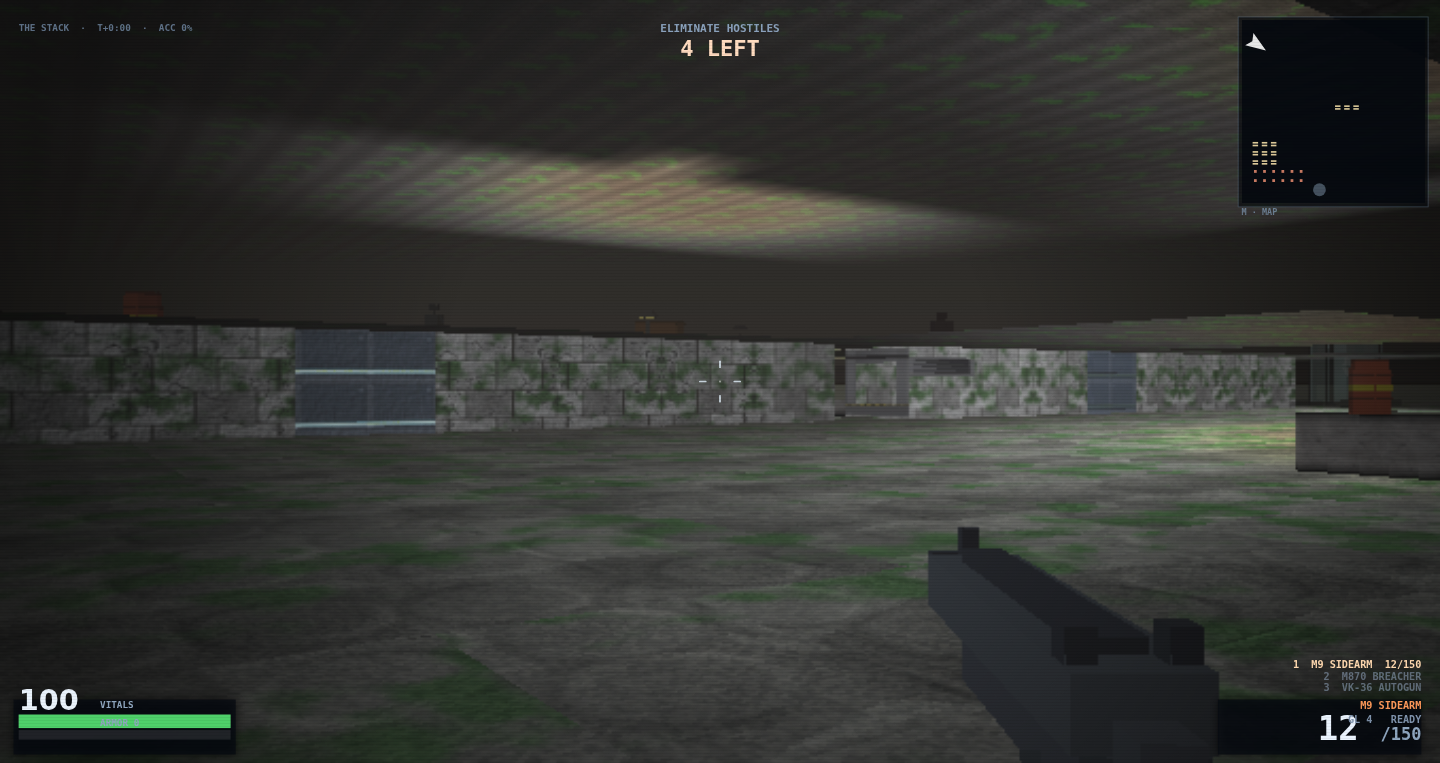
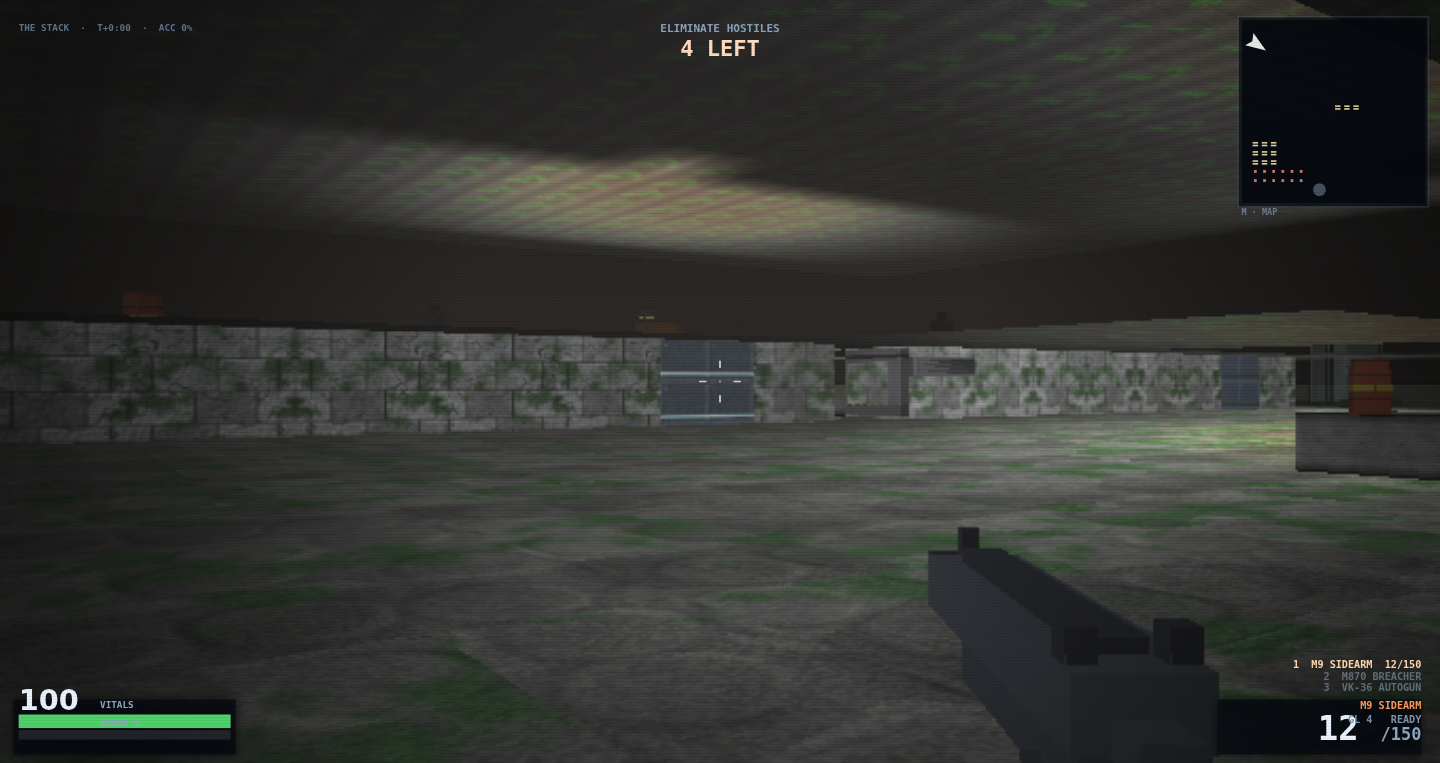
docs: re-take THE STACK's frame from the build the deployed page serves (#388)
main's third take of #375 landed while the previous capture of this seat was in
review, and it paints into exactly this frame: a ray that leaves the level no
longer pays a tall ceiling's bounce light. The shipped PNG came from the build
before it, so the caption's 50.89 sat above what the URL now draws and the row's
md5-identical claim had gone false under the PR.

Re-taken from the deployed URL at cc10ef4 (deployed index.html + 11 js blobs are
md5-identical to this tree's js/, which is main's). Frame decodes 50.44 by thirds
41.8/58.6/50.9; 150,360 px move by >2 luma against the bytes it replaces and
124,799 of them are the far-ceiling middle third, floor third moving 0.01. The
route runs from a document-time hook plus the game's own resume() - a page with
no pointer lock pauses on first blur and the overlay dims the frame (14.48, which
is how it was caught) - and DEV.layoutSig() now reads 2307539281: MAP.fz is
authored and unchanged, the MAP.cell panel half moved with #400 and route timing.

recap check 0 failures of 39 rows; smoke and VERT smoke both SMOKE PASSED.

diff --git a/README.md b/README.md
@@ -51,7 +51,7 @@ PR that changes the picture. `node tools/recap.js check` decodes these files and
 quoted below against them, so a caption cannot drift from its image. What *changed* between two
 recaptures is a question for `CHANGELOG.md` and the PR that moved it — it is not kept here.
 
-The six frames decode to **63.44 / 20.87 / 63.06 / 47.81 / 68.50 / 50.89** mean luma
+The six frames decode to **63.44 / 20.87 / 63.06 / 47.81 / 68.50 / 50.44** mean luma
 (`0.2126 R + 0.7152 G + 0.0722 B`, the rule `DEV.lum` uses), in the order they appear below.
 
 All six come from the **deployed build** at `?dev=1&seed=60`, with the clock frozen, vitals pinned at
@@ -63,21 +63,34 @@ by a **code** marker rather than a prose one: `authorVolume.toString()` contains
 `rooms.length >= 8 ? 3 : TALL_WANT_MIN` (#283), and `MESH.neckBand` exists (#326) - both read off the
 shipped statements, and every deployed `js/` blob is md5-identical to the
 tree at **`ce9d39d`**. **One frame is newer than the other five.** `level3-stack.png` was re-taken at
-**`b1d90fb`** (#388), and this time the instrument was the URL itself: headless Chromium opened the
-deployed page at a 1440 × 763 viewport and drove the dev hooks there, instead of rendering a checkout
-over loopback and arguing from md5. The bytes were still read - `index.html` and all eleven `js/` blobs
-served by the deployed page are md5-identical to that tree - so the route and the tree name one build.
-Four merged PRs have moved that seat's picture since the file last sat here: #318 walked the doorway lamp
-one cell east out of the wall jamb, #375 cancelled a lamp's borrowed light on the far ceiling past the
-level's edge, #373 turned props into shaded solids, #403 mounted fixtures on walls, and #379 replaced
-bloom's flat gain over every mid-bright pixel with a bright pass and one shouldered black-point lift on
-the room. The frame decodes 47.77 → **50.89** by thirds **34.7 / 64.1 / 44.6 → 42.1 / 60.2 / 50.9**: the
-lift raises what was dark and the removed gain takes the brightness off what was already lit - the `TECH`
-panel band reads 97/101/96 where it read 121/139/137, so the green cast the old frame carried is gone and
-its mid-bright band is the only third that went down. It is stored as colour type 2 (truecolour, no
+**`cc10ef4`**, what the deployed page serves now (#388), and the instrument is the URL itself: headless
+Chromium opened the deployed page at a 1440 × 763 viewport and drove the dev hooks there, instead of
+rendering a checkout over loopback and arguing from md5. The bytes were still read - `index.html` and all
+eleven `js/` blobs served by the deployed page are md5-identical to that tree - so the route and the tree
+name one build. Five merged PRs have moved that seat's picture since `34d58d0` last sat here: #318 walked
+the doorway lamp one cell east out of the wall jamb, #375 cancelled a lamp's borrowed light on the far
+ceiling past the level's edge - in three takes, the last of them landed while this frame was being taken,
+#373 turned props into shaded solids, #403 mounted fixtures on walls and #400 set them back off the wall
+face so they keep a shape at an angle, and #379 replaced bloom's flat gain over every mid-bright pixel
+with a bright pass and one shouldered black-point lift on the room. Against the frame it replaces this one
+decodes **50.89 → 50.44** by thirds **42.1 / 59.7 / 50.9 → 41.8 / 58.6 / 50.9** (`tools/recap.js`'s own
+band means, which are what the tool prints and gates against, not a hand-taken third). 150,360 of its
+1,098,720 pixels move by more than 2 luma and they are not scattered: 124,799 of them are in the middle
+third, the far ceiling above the `TECH` wall, which is exactly where #375's third take cancels a tall
+ceiling's bounce light from rays that reach no ceiling; the floor third moves by 0.01. Frame channels
+read 49.5 / 51.0 / 47.7 against 49.9 / 51.5 / 48.1, so the picture is the same colour one shade quieter
+rather than a different colour. It is stored as colour type 2 (truecolour, no
 alpha) like the other five; a capture that arrives as RGBA has to be put through `tools/png_rgb.js`
 first, because the decoder in `tools/recap.js` reads an alpha PNG's channels in the wrong order (#394).
-Its `DEV.layoutSig()` reads **3233039185** at the same `seed=60`, reproduced on four consecutive loads.
+Its `DEV.layoutSig()` reads **2307539281** at the same `seed=60`, on every one of six loads. That is not
+the signature the previous frame of this seat carried (3233039185): the authored `MAP.fz` is unchanged -
+this level's floors are written, not rolled - and what moved is the `MAP.cell` half of the hash, the
+`pickWallTex` panel choices, which #400's fixture placement and the route's own timing draw from a
+different point in the seeded stream. Same room, same geometry, different wall panels; the tone figures
+below are `tools/recap.js` decoding the shipped bytes, which is the only reading the gate compares. One
+deviation the route has to state, because it changes the deal: a page that never gets a pointer lock
+pauses on the first blur and the pause overlay dims everything under it, so this capture ends with the
+game's own `resume()` and one more `DEV.tick(1)` - see the row's `note`.
 **The five level-0 frames have not been re-taken.** They still carry the `ce9d39d` identity and the
 signature below, and #373, #403 and #379 have all merged since - so those five describe the picture their
 own build drew, not the one the deployed page draws today. `DEV.layoutSig()` for this deal is **735688443** - the same number the previous
@@ -194,10 +207,16 @@ stepped glyphs on the minimap at right are the staircase that gets you up there.
 of that wall is the doorway, and the lamp lighting it now stands one cell inside the room: it used to stand
 in the doorway cell itself, in a wall jamb, where its own collision ghost left about 0.34 m of passage and
 wedged a body in the one place the level connects (#318). The pale panel mounted high on that wall beside
-the doorway is one of the 14 wall fixtures this level now places (#403) — the frame this one replaces
-showed bare stone there — and the whole picture is flatter than its predecessor: the flat bloom gain that
+the doorway is one of the 14 wall fixtures this level now places (#403), stood off the wall face so it
+keeps a shape at an angle (#400) — the frame `34d58d0` left behind showed bare stone there — and the whole
+picture is flatter than its predecessor: the flat bloom gain that
 used to sit over every mid-bright pixel is gone and a black-point lift is on the room instead (#379), so
-the lit patches read dimmer, the dark ones lift, and the mean lands at 50.89 against 47.77. Authoring it by hand removes the old excuse — a level that
+the lit patches read dimmer, the dark ones lift, and the mean lands at 50.44 against 47.77. One term in
+this frame is newer than that sentence: the far ceiling above the `TECH` wall's top edge is a band of rows
+300-330 darker than the frame it replaces (41.4 → 37.9 mean) because #375's third take stopped a ray that
+leaves the level paying a tall ceiling's bounce light. The streaked 4.00 plane itself is untouched - the
+same rectangle two hundred rows higher reads 41.3/40.4/37.7 in both frames - so the change is the borrowed
+light, not the ceiling. Authoring it by hand removes the old excuse — a level that
 reads badly can no longer be blamed on the seed stream, because this plan is written cell by cell over a
 20 × 20 grid.
 
